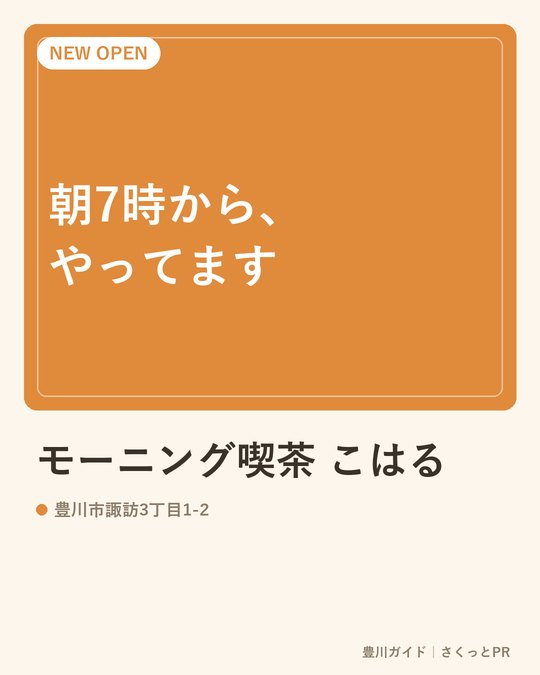
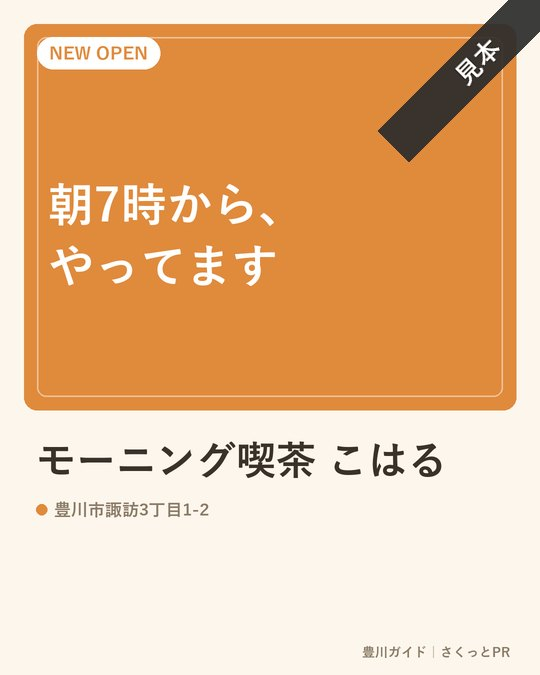
さくっとPRギャラリーに「見本」リボン焼き込み（実広告と誤認させない）
- 6枚全部の右上角に斜め「見本」リボン（本文には被せない角掛け）
- ページ文言も「架空のイメージ見本です（実在の広告ではありません）」と明記

Changed region(s): [[0.6815, 0.0, 1.0, 0.2489]]

diff --git a/sakutto_pr/index.html b/sakutto_pr/index.html
@@ -129,8 +129,8 @@ h2.sec:first-of-type{border-top:none;padding-top:0;margin-top:0}
   </div>
   <div class="exnote">💡 <b style="font-size:12.5px">迷ったら、とりあえず申し込んでみてください。</b>掲載できるか分からない内容でも、こちらで記事の形に整えてご提案します。完成イメージを見てから「やっぱりやめる」もOKです（それまで一切公開されません）</div>
   <div class="exgallery">
-    <h3>仕上がりはこんな感じ（記入例）</h3>
-    <p>色とラベルは下のフォームで選べます。上段＝写真なし／下段＝写真あり（写真があると自動でこのかたちになります）</p>
+    <h3>仕上がりはこんな感じ（見本）</h3>
+    <p>※お店・団体名はすべて<b>架空のイメージ見本</b>です（実在の広告ではありません）。色とラベルは下のフォームで選べます。上段＝写真なし／下段＝写真あり</p>
     <div class="imgs">
       <img src="samples/ex1_cafe.jpg" alt="記入例：喫茶店の新規オープン（写真なし）" loading="lazy">
       <img src="samples/ex2_piano.jpg" alt="記入例：ピアノ教室の生徒募集（写真なし）" loading="lazy">
